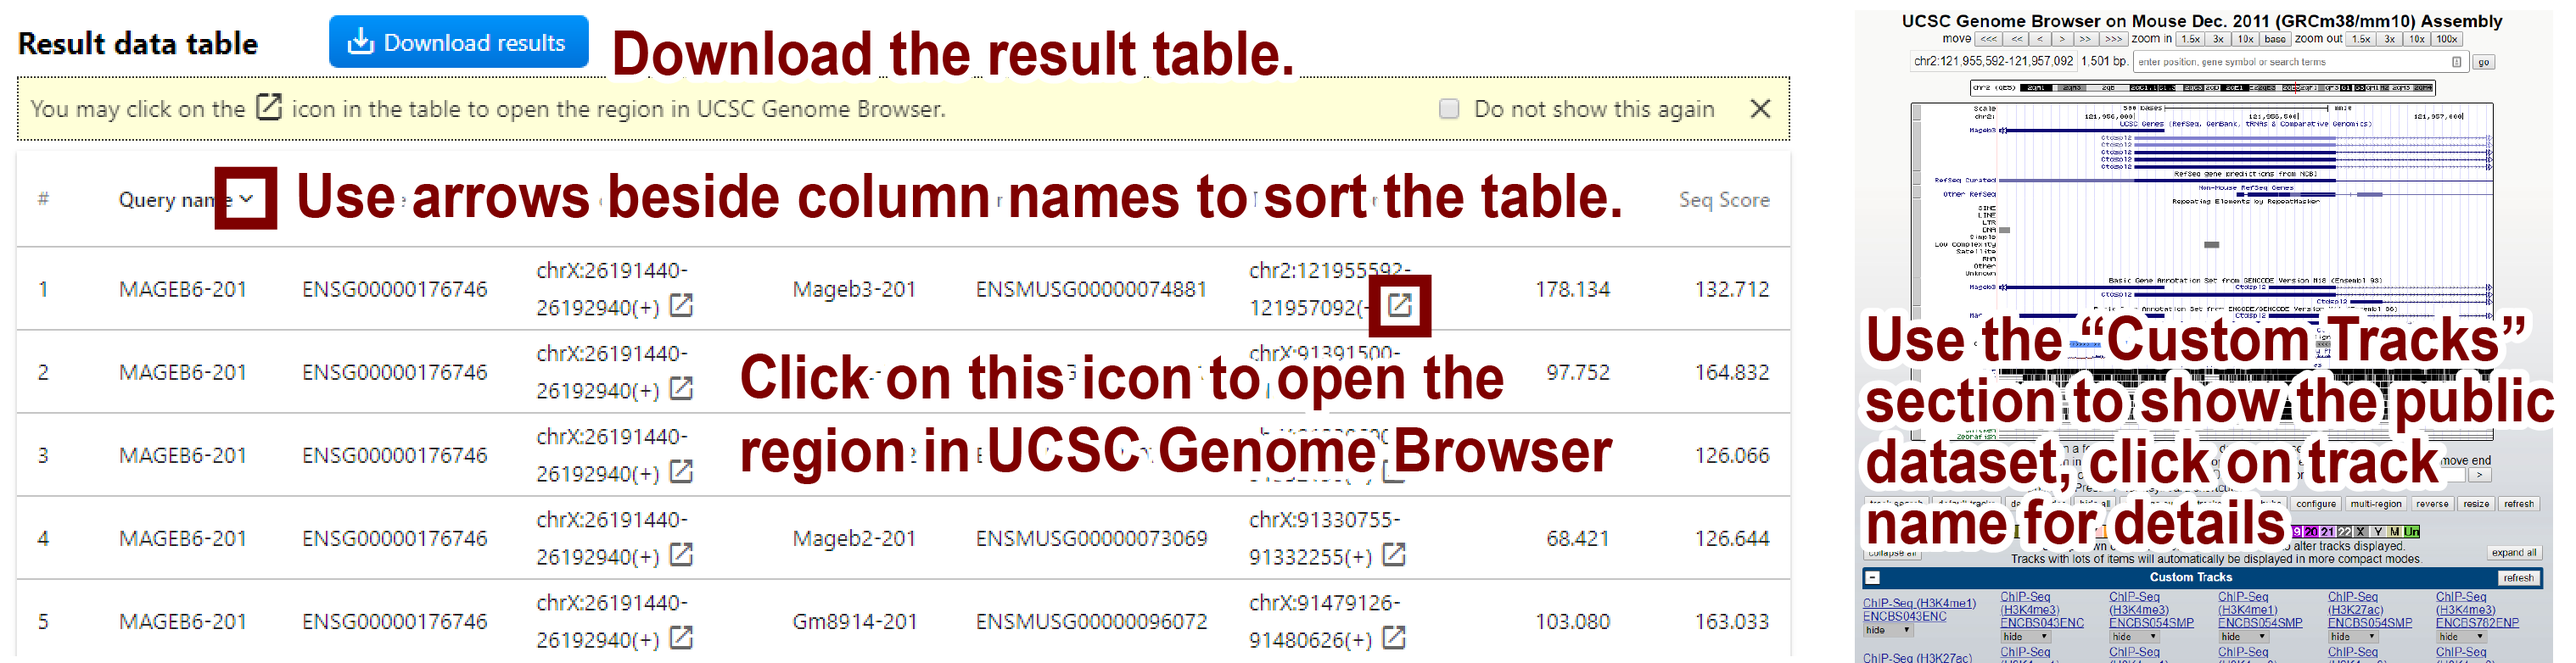
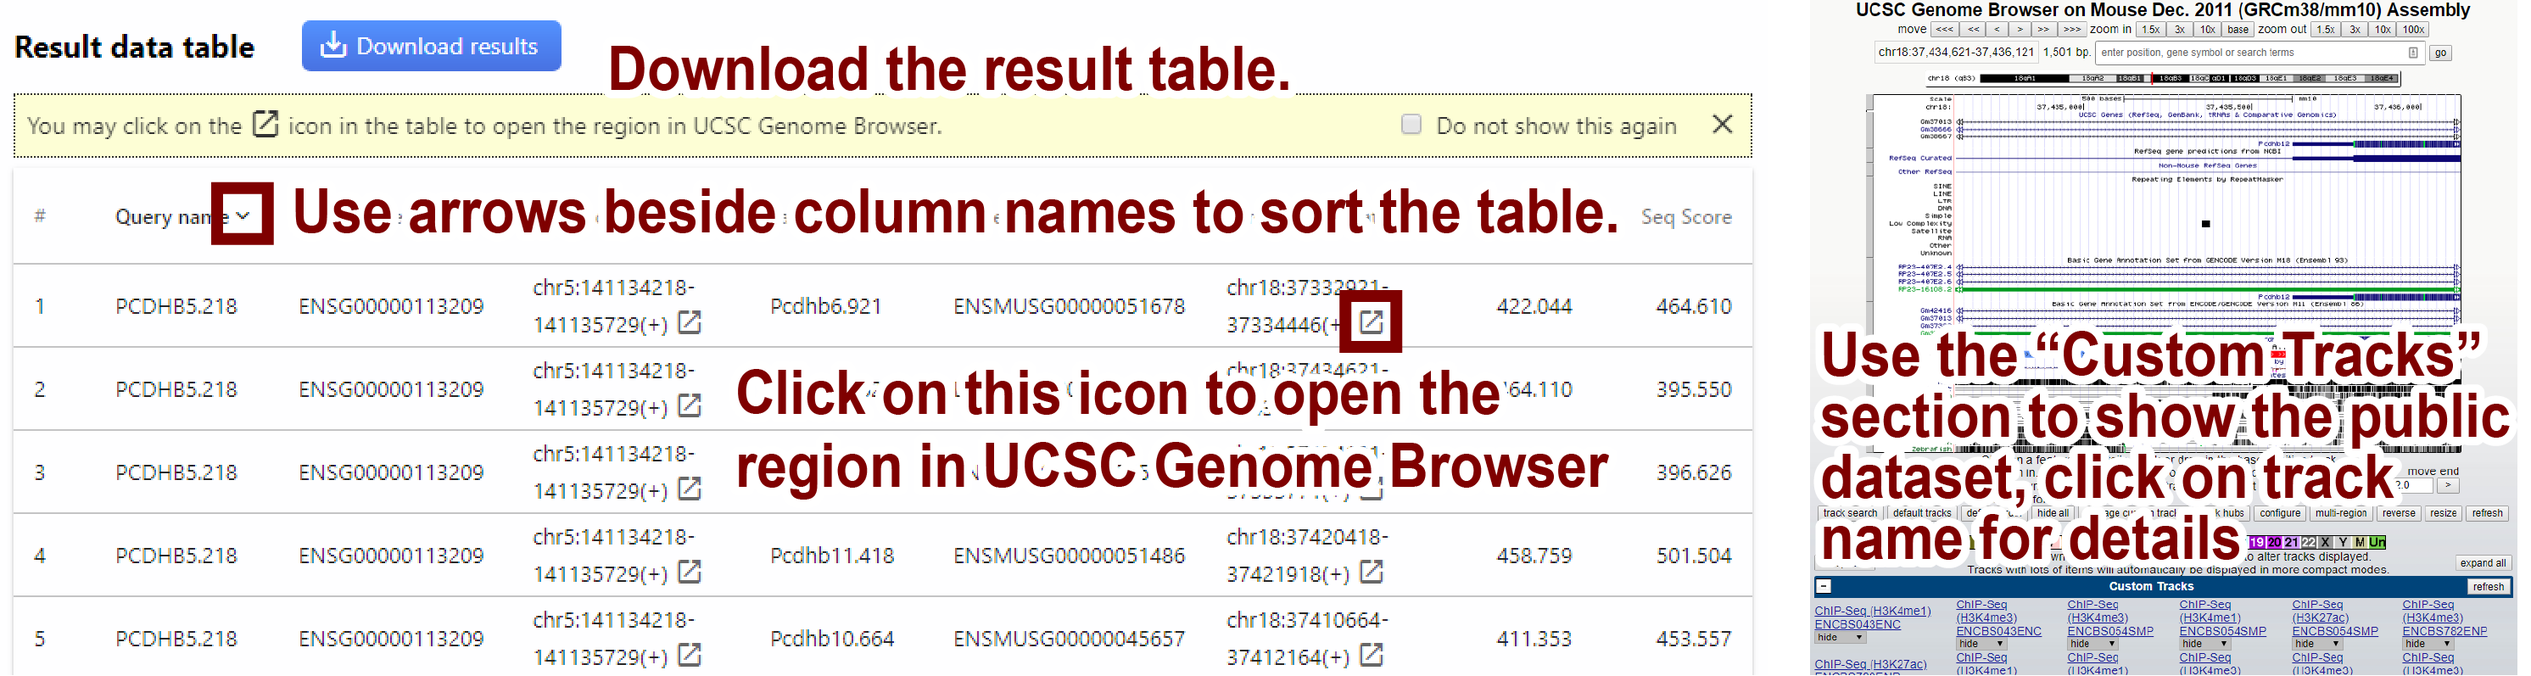
UI update
*   Added numbers to heatmap scale bar and random percentile.
*   Added "insignificant" hit shifts.
*   Updated sample data for promoters.

diff --git a/html/result.html b/html/result.html
@@ -20,7 +20,6 @@
 
 <body>
   <div id="header" class="result noFlex flexRow flexCenter flexWrap">
-    <!--Introduction-->
     <div id="headerContainer" class="flex flexColumn flexStretch flexNoWrap flexNoGap">
       <h1 class="flex"><a href="index.html">EpiAlignment</a></h1>
     </div>
@@ -31,7 +30,6 @@
         client template</a>
     </div>
   </div>
-  <!--alignment steps-->
   <div data-app id="result_app" class="flex flexColumn flexStretch" v-cloak>
     <div id="runInfo" class="noFlex">
       <div v-show="!showRunDetails" class="collapsedRunInfo noFlex flexRow flexCenter flexWrap flexNoGap justifyStart">
@@ -114,7 +112,9 @@
                 <tr v-for="rowEntry in epiHeatmapList">
                   <th>{{ rowEntry.geneId }}</th>
                   <td class="heatmapCell" v-for="value in rowEntry.values">
-                    <div class="heatmapObj" :class="{ seqMax: value.seqMax && rowEntry.labelMax, epiMax: value.epiMax && rowEntry.labelMax }">
+                    <div class="heatmapObj">
+                      <div class="heatmapBorder" :class="{ seqMax: value.seqMax && rowEntry.labelMax, epiMax: value.epiMax && rowEntry.labelMax, insignificant: value.insignificant }">
+                      </div>
                       <div class="heatmapValueCell" :style="{ opacity: (Number.isNaN(parseFloat(value.epiScoreNorm)) ? 1 : value.epiScoreNorm) }">
                       </div>
                       <div class="overlay flexRow flexNoWrap flexCenter justifyCenter" v-show="value.epiMax">H</div>
@@ -123,7 +123,7 @@
                 </tr>
               </tbody>
             </table>
-            <div class="selfAlignStretch resultHeader">Sequence-only Score</div>
+            <div v-if="hasSequence" class="selfAlignStretch resultHeader">Sequence-only Score</div>
             <table v-if="hasSequence">
               <thead>
                 <tr>
@@ -137,7 +137,9 @@
                 <tr v-for="rowEntry in epiHeatmapList">
                   <th>{{ rowEntry.geneId }}</th>
                   <td class="heatmapCell" v-for="value in rowEntry.values">
-                    <div class="heatmapObj" :class="{ seqMax: value.seqMax && rowEntry.labelMax, epiMax: value.epiMax && rowEntry.labelMax }">
+                    <div class="heatmapObj">
+                      <div class="heatmapBorder" :class="{ seqMax: value.seqMax && rowEntry.labelMax, epiMax: value.epiMax && rowEntry.labelMax, insignificant: value.insignificant }">
+                      </div>
                       <div class="heatmapValueCell" :style="{ opacity:  (Number.isNaN(parseFloat(value.seqScoreNorm)) ? 1 : value.seqScoreNorm) }">
                       </div>
                       <div class="overlay flexRow flexNoWrap flexCenter justifyCenter" v-show="value.seqMax">H</div>
@@ -148,11 +150,17 @@
             </table>
             <div id="heatmapLegend" class="selfAlignStretch flexColumn flexStretch flexNoGap flexNoWrap">
               <!-- Scale bar -->
-              <div class="flexRow flexStart flexNoWrap">
-                <div class="flexRow flexCenter flexNoGap noFlex" id="colorScaleGroup">
-                  {{ Number.parseFloat(heatMapDesc.min).toFixed(2) }}
-                  <div id="colorScale"></div>
-                  {{ Number.parseFloat(heatMapDesc.max).toFixed(2) }}
+              <div class="flexRow flexCenter flexNoWrap">
+                <div class="flexRow flexEnd flexNoGap noFlex" id="colorScaleGroup">
+                  {{ Number.parseFloat(heatmapDesc.min).toFixed(2) }}
+                  <div id="colorScaleContainer">
+                    <!-- 95th percentile indicator -->
+                    <div id="percentile95" v-if="heatmapDesc.showPercentile" :style="{ 'margin-left': (heatmapDesc.percentileValue - heatmapDesc.min) / heatmapDesc.span * 100 + '%' }">
+                      <span>{{ Number.parseFloat(heatmapDesc.percentileValue).toFixed(2) }}</span>
+                    </div>
+                    <div id="colorScale"></div>
+                  </div>
+                  {{ Number.parseFloat(heatmapDesc.max).toFixed(2) }}
                 </div>
                 <div class="flex">Alignment score</div>
               </div>
@@ -164,12 +172,14 @@
                 <div class="flex">Target with highest score</div>
               </div>
               <!-- Seq-best pair -->
-              <div class="flexRow flexStart flexNoWrap">
-                <div class="legendIcon heatmapObj epiMax noFlex"></div>
+              <div v-if="hasSequence" class="flexRow flexStart flexNoWrap">
+                <div class="legendIcon heatmapBorder epiMax noFlex"></div>
+                <div class="legendIcon heatmapBorder epiMax noFlex insignificant"></div>
                 <div class="flex">Shifted EpiAlign target</div>
               </div>
-              <div class="flexRow flexStart flexNoWrap">
-                <div class="legendIcon heatmapObj seqMax noFlex"></div>
+              <div v-if="hasSequence" class="flexRow flexStart flexNoWrap">
+                <div class="legendIcon heatmapBorder seqMax noFlex"></div>
+                <div class="legendIcon heatmapBorder seqMax noFlex insignificant"></div>
                 <div class="flex">Original sequence-only alignment target</div>
               </div>
             </div>
@@ -206,9 +216,16 @@
               </li>
             </ul>
             <em>the new hit</em> will be marked on the heatmap with a green
-            square ( <div class="legendIcon heatmapObj epiMax"></div> ), and
+            square ( <div class="legendIcon heatmapBorder epiMax"></div> ), and
             <em>the old hit</em> will be marked with a gray square (
-            <div class="legendIcon heatmapObj seqMax"></div>
+            <div class="legendIcon heatmapBorder seqMax"></div>
+            ).
+            If <em>the new hit</em> has a lower Sequence-only score than the
+            95th percentile of random sequences (marked on the color scale bar
+            if it's not the maximum), the border of the square for both
+            <em>the new hit</em> and <em>the old hit</em> will be dashed (
+              <div class="legendIcon heatmapBorder epiMax insignificant"></div>
+            and <div class="legendIcon heatmapBorder seqMax insignificant"></div>
             ).
           </p>
           <p>
@@ -268,9 +285,10 @@
               <td class="dataTableCell" :class="{'text-xs-right': alignMode === 'promoter'}">{{ alignMode ===
                 'promoter' ?
                 Number.parseFloat(row.item.scoreE).toFixed(3) : row.item.targetE }}</td>
-              <td class="dataTableCell" :class="{'text-xs-right': alignMode === 'promoter'}">{{ alignMode ===
-                'promoter' ?
-                Number.parseFloat(row.item.scoreS).toFixed(3) : row.item.targetS }}</td>
+              <td class="dataTableCell" :class="{'text-xs-right': alignMode === 'promoter'}">
+                {{ alignMode === 'promoter' ? (row.item.scoreS !== '.'
+                  ? Number.parseFloat(row.item.scoreS).toFixed(3) : '---')
+                : row.item.targetS !== '.' ? row.item.targetS : '---' }}</td>
             </tr>
           </template>
           <template slot="expand" slot-scope="entry">

diff --git a/html/js/result.js b/html/js/result.js
@@ -99,10 +99,12 @@ var app = new Vue({
     geneIdentifier2: null, // ['transID2', 'region_name2']
     showHeatmap: false,
 
-    heatMapDesc: {
+    heatmapDesc: {
       min: ALIGN_SCORE_95 - MINIMUM_HEATMAP_GAP,
       max: ALIGN_SCORE_95,
-      span: MINIMUM_HEATMAP_GAP
+      span: MINIMUM_HEATMAP_GAP,
+      showPercentile: false,
+      percentileValue: ALIGN_SCORE_95
     },
 
     showResultHint: true,
@@ -370,9 +372,7 @@ var app = new Vue({
       data.forEach(entry =>
         this.parseSinglePromoterEntry(entry, columnMap, rowMap))
       this.processHeatmap()
-      if (this.hasSequence) {
-        this.markRowMaxFlags()
-      }
+      this.markRowMaxFlags()
     },
     parseSinglePromoterEntry: function (entry, columnMap, rowMap) {
       this.initPromoterEntryIfNotExists(entry, columnMap, rowMap)
@@ -409,28 +409,32 @@ var app = new Vue({
       this.findMinMaxTableValue(this.epiHeatmapList, propertyList)
       this.epiHeatmapList.forEach(entry => entry.values.forEach(value => (
         value.epiScoreNorm =
-          (value.epiScore - this.heatMapDesc.min) / this.heatMapDesc.span
+          (value.epiScore - this.heatmapDesc.min) / this.heatmapDesc.span
       )))
       if (this.hasSequence) {
-        this.epiHeatmapList.forEach(entry => entry.values.forEach(value => (
+        this.epiHeatmapList.forEach(entry => entry.values.forEach(value => {
           value.seqScoreNorm =
-            (value.seqScore - this.heatMapDesc.min) / this.heatMapDesc.span
-        )))
+            (value.seqScore - this.heatmapDesc.min) / this.heatmapDesc.span
+          value.insignificant =
+            (this.heatmapDesc.percentileValue > value.seqScore)
+        }))
       }
     },
     markRowMaxFlags: function () {
       this.epiHeatmapList.forEach(entry => {
         let epiMaxIndex =
           this.markSingleRowMaxFlag(entry, 'epiScore', 'epiMax')
-        let seqMaxIndex =
-          this.markSingleRowMaxFlag(entry, 'seqScore', 'seqMax')
-        entry.labelMax = (epiMaxIndex !== seqMaxIndex) && (
-          entry.values[epiMaxIndex].epiScore >
+        if (this.hasSequence) {
+          let seqMaxIndex =
+            this.markSingleRowMaxFlag(entry, 'seqScore', 'seqMax')
+          entry.labelMax = (epiMaxIndex !== seqMaxIndex) && (
+            entry.values[epiMaxIndex].epiScore >
             entry.values[epiMaxIndex].seqScore
-        ) && (
-          entry.values[seqMaxIndex].seqScore >
-            entry.values[seqMaxIndex].epiScore
-        )
+          ) && (
+            entry.values[seqMaxIndex].seqScore >
+              entry.values[seqMaxIndex].epiScore
+          )
+        }
       })
     },
     markSingleRowMaxFlag: function (row, property, propertyToMark) {
@@ -449,19 +453,20 @@ var app = new Vue({
     findMinMaxTableValue: function (table, entryPropertyList) {
       table.forEach(entry => entry.values.forEach(
         value => entryPropertyList.forEach(prop => {
-          if (this.heatMapDesc.min > value[prop]) {
-            this.heatMapDesc.min = value[prop]
+          if (this.heatmapDesc.min > value[prop]) {
+            this.heatmapDesc.min = value[prop]
           }
-          if (this.heatMapDesc.max < value[prop]) {
-            this.heatMapDesc.max = value[prop]
+          if (this.heatmapDesc.max < value[prop]) {
+            this.heatmapDesc.max = value[prop]
+            this.heatmapDesc.showPercentile = true
           }
         })
       ))
-      if (this.heatMapDesc.max - this.heatMapDesc.min < MINIMUM_HEATMAP_GAP) {
-        this.heatMapDesc.span = MINIMUM_HEATMAP_GAP
-        this.heatMapDesc.min = this.heatMapDesc.max - MINIMUM_HEATMAP_GAP
+      if (this.heatmapDesc.max - this.heatmapDesc.min < MINIMUM_HEATMAP_GAP) {
+        this.heatmapDesc.span = MINIMUM_HEATMAP_GAP
+        this.heatmapDesc.min = this.heatmapDesc.max - MINIMUM_HEATMAP_GAP
       } else {
-        this.heatMapDesc.span = this.heatMapDesc.max - this.heatMapDesc.min
+        this.heatmapDesc.span = this.heatmapDesc.max - this.heatmapDesc.min
       }
     },
     processEnhancerData: function (data) {

diff --git a/html/styles/mainstyles.css b/html/styles/mainstyles.css
@@ -1036,6 +1036,20 @@ div.heatmapObj {
 	position: relative;
 }
 
+div.heatmapObj > div.heatmapBorder {
+	position: absolute;
+	top: 0;
+	bottom: 0;
+	left: 0;
+	right: 0;
+	z-index: 2;
+	background: none;
+}
+
+div.heatmapObj > div.heatmapBorder.insignificant {
+	margin: 1px;
+}
+
 div.heatmapObj > div.overlay {
 	position: absolute;
 	top: 0;
@@ -1048,12 +1062,20 @@ div.heatmapObj > div.overlay {
 	background: none;
 }
 
-div.heatmapObj.seqMax {
+div.heatmapBorder.seqMax {
 	border: 4px solid #666666;
 }
 
-div.heatmapObj.epiMax {
+div.heatmapBorder.seqMax.insignificant {
+	border: 2px dashed #666666;
+}
+
+div.heatmapBorder.epiMax {
 	border: 4px solid #007e00;
+}
+
+div.heatmapBorder.epiMax.insignificant {
+	border: 2px dashed #007e00;
 }
 
 .heatmapCell > div.heatmapObj > div.heatmapValueCell {
@@ -1084,16 +1106,35 @@ div.heatmapObj.epiMax {
 	font-size: 11px;
 }
 
-#heatmapLegend #colorScale {
-	height: 0.8em;
+#heatmapLegend #colorScaleContainer {
+	padding: 0;
+	overflow-x: visible;
 	width: 10em;
-	margin: 0 0.3em;
+	margin: 0 0.3em 0.5em 0.3em;
+}
+
+#heatmapLegend #colorScale {
+	width: 100%;
+	height: 1em;
 	box-sizing: border-box;
 	border: 1px solid #666666;
 	background: linear-gradient(to right, rgba(200, 37, 0, 0), rgba(200, 37, 0, 1));
 }
 
-div.legendIcon.heatmapObj {
+#heatmapLegend #colorScaleContainer #percentile95 {
+	overflow: visible;
+	width: 0;
+	border-left: 1px solid #666666;
+	height: 1.2em;
+	line-height: 0.8em;
+}
+
+#heatmapLegend #colorScaleContainer #percentile95 > span {
+	margin: 0 0.1em;
+	padding: 0.1em 0.1em;
+}
+
+div.legendIcon {
 	display: inline-block;
 	font-size: 12px;
 	width: 1.5em;

diff --git a/html/js/main.js b/html/js/main.js
@@ -51,7 +51,7 @@ const ENHANCER_FLANK_DEFAULT = 20000
 const EPI_WEIGHT_DEFAULT = 0.1
 const PARA_S_DEFAULT = 0.3
 const PARA_MU_DEFAULT = 0.3
-const PARA_K_DEFAULT = 0.8
+const PARA_K_DEFAULT = 0.5
 const PARA_PI_A_DEFAULT = 0.25
 const PARA_PI_C_DEFAULT = 0.25
 const PARA_PI_G_DEFAULT = 0.25
@@ -665,21 +665,25 @@ var app = new Vue({
       if (!this.formParams.alignMode) {
         console.log('Please select an align mode first!')
       }
-      this.selectedExperimentIds = {
-        human: 'GSM1673960',
-        mouse: 'GSM1674003'
-      }
       this.selectedEntryDescHtml = '<strong>ChIP-Seq (H3K4me3)</strong>' +
         ' on <strong>round spermatids</strong>'
       this.selectedEntryDesc = 'ChIP-Seq (H3K4me3) on round spermatids'
       if (this.formParams.alignMode === 'promoter') {
+        this.selectedExperimentIds = {
+          human: 'GSM1673960',
+          mouse: 'GSM1674016'
+        }
         this.formParams.genomeAssembly.splice(
           0, this.formParams.genomeAssembly.length, 'hg38', 'mm10')
-        this.formParams.speciesText.splice(0, 1, 'MAGEB6\nMAGEB6B')
-        this.clusterText = 'Cluster_13680'
+        this.formParams.speciesText.splice(0, 1, 'PCDHB5\nHTR1D')
+        this.clusterText = 'Cluster_1491'
         this.formParams.searchRegionMode = 'genecluster'
       } else {
         // enhancer mode
+        this.selectedExperimentIds = {
+          human: 'GSM1673960',
+          mouse: 'GSM1674003'
+        }
         this.formParams.genomeAssembly.splice(
           0, this.formParams.genomeAssembly.length, 'mm10', 'hg38')
         this.formParams.speciesText.splice(
